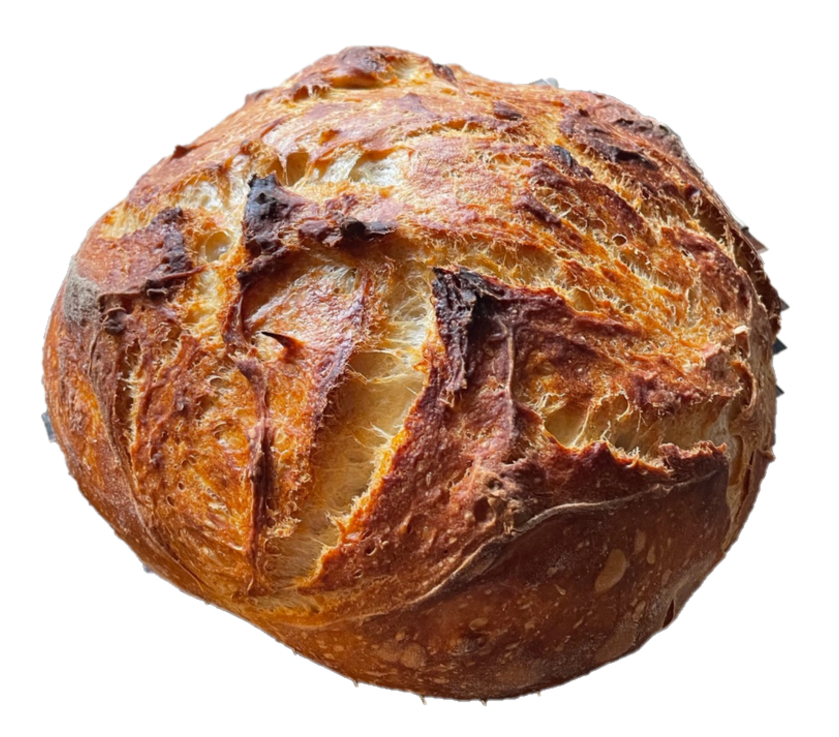
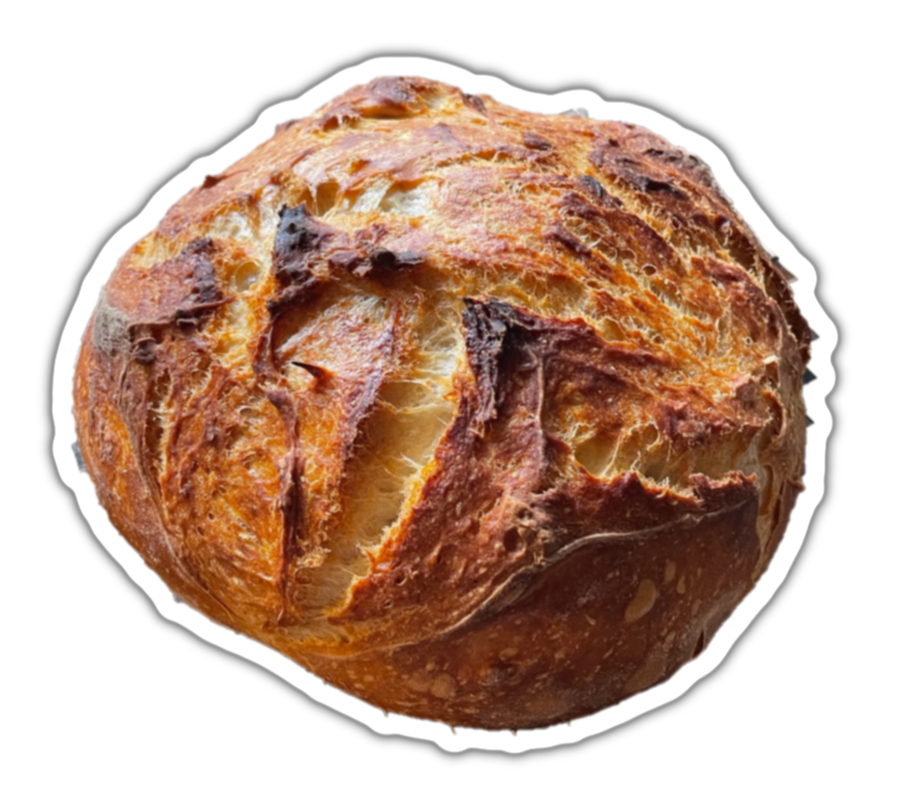
u

diff --git a/index.html b/index.html
@@ -52,7 +52,7 @@
             position: absolute;
             bottom: 5%;
             left: 5%;
-            width: 300px;
+            width: 250px;
             max-width: 30%;
             cursor: pointer;
             transition: transform 0.2s;
